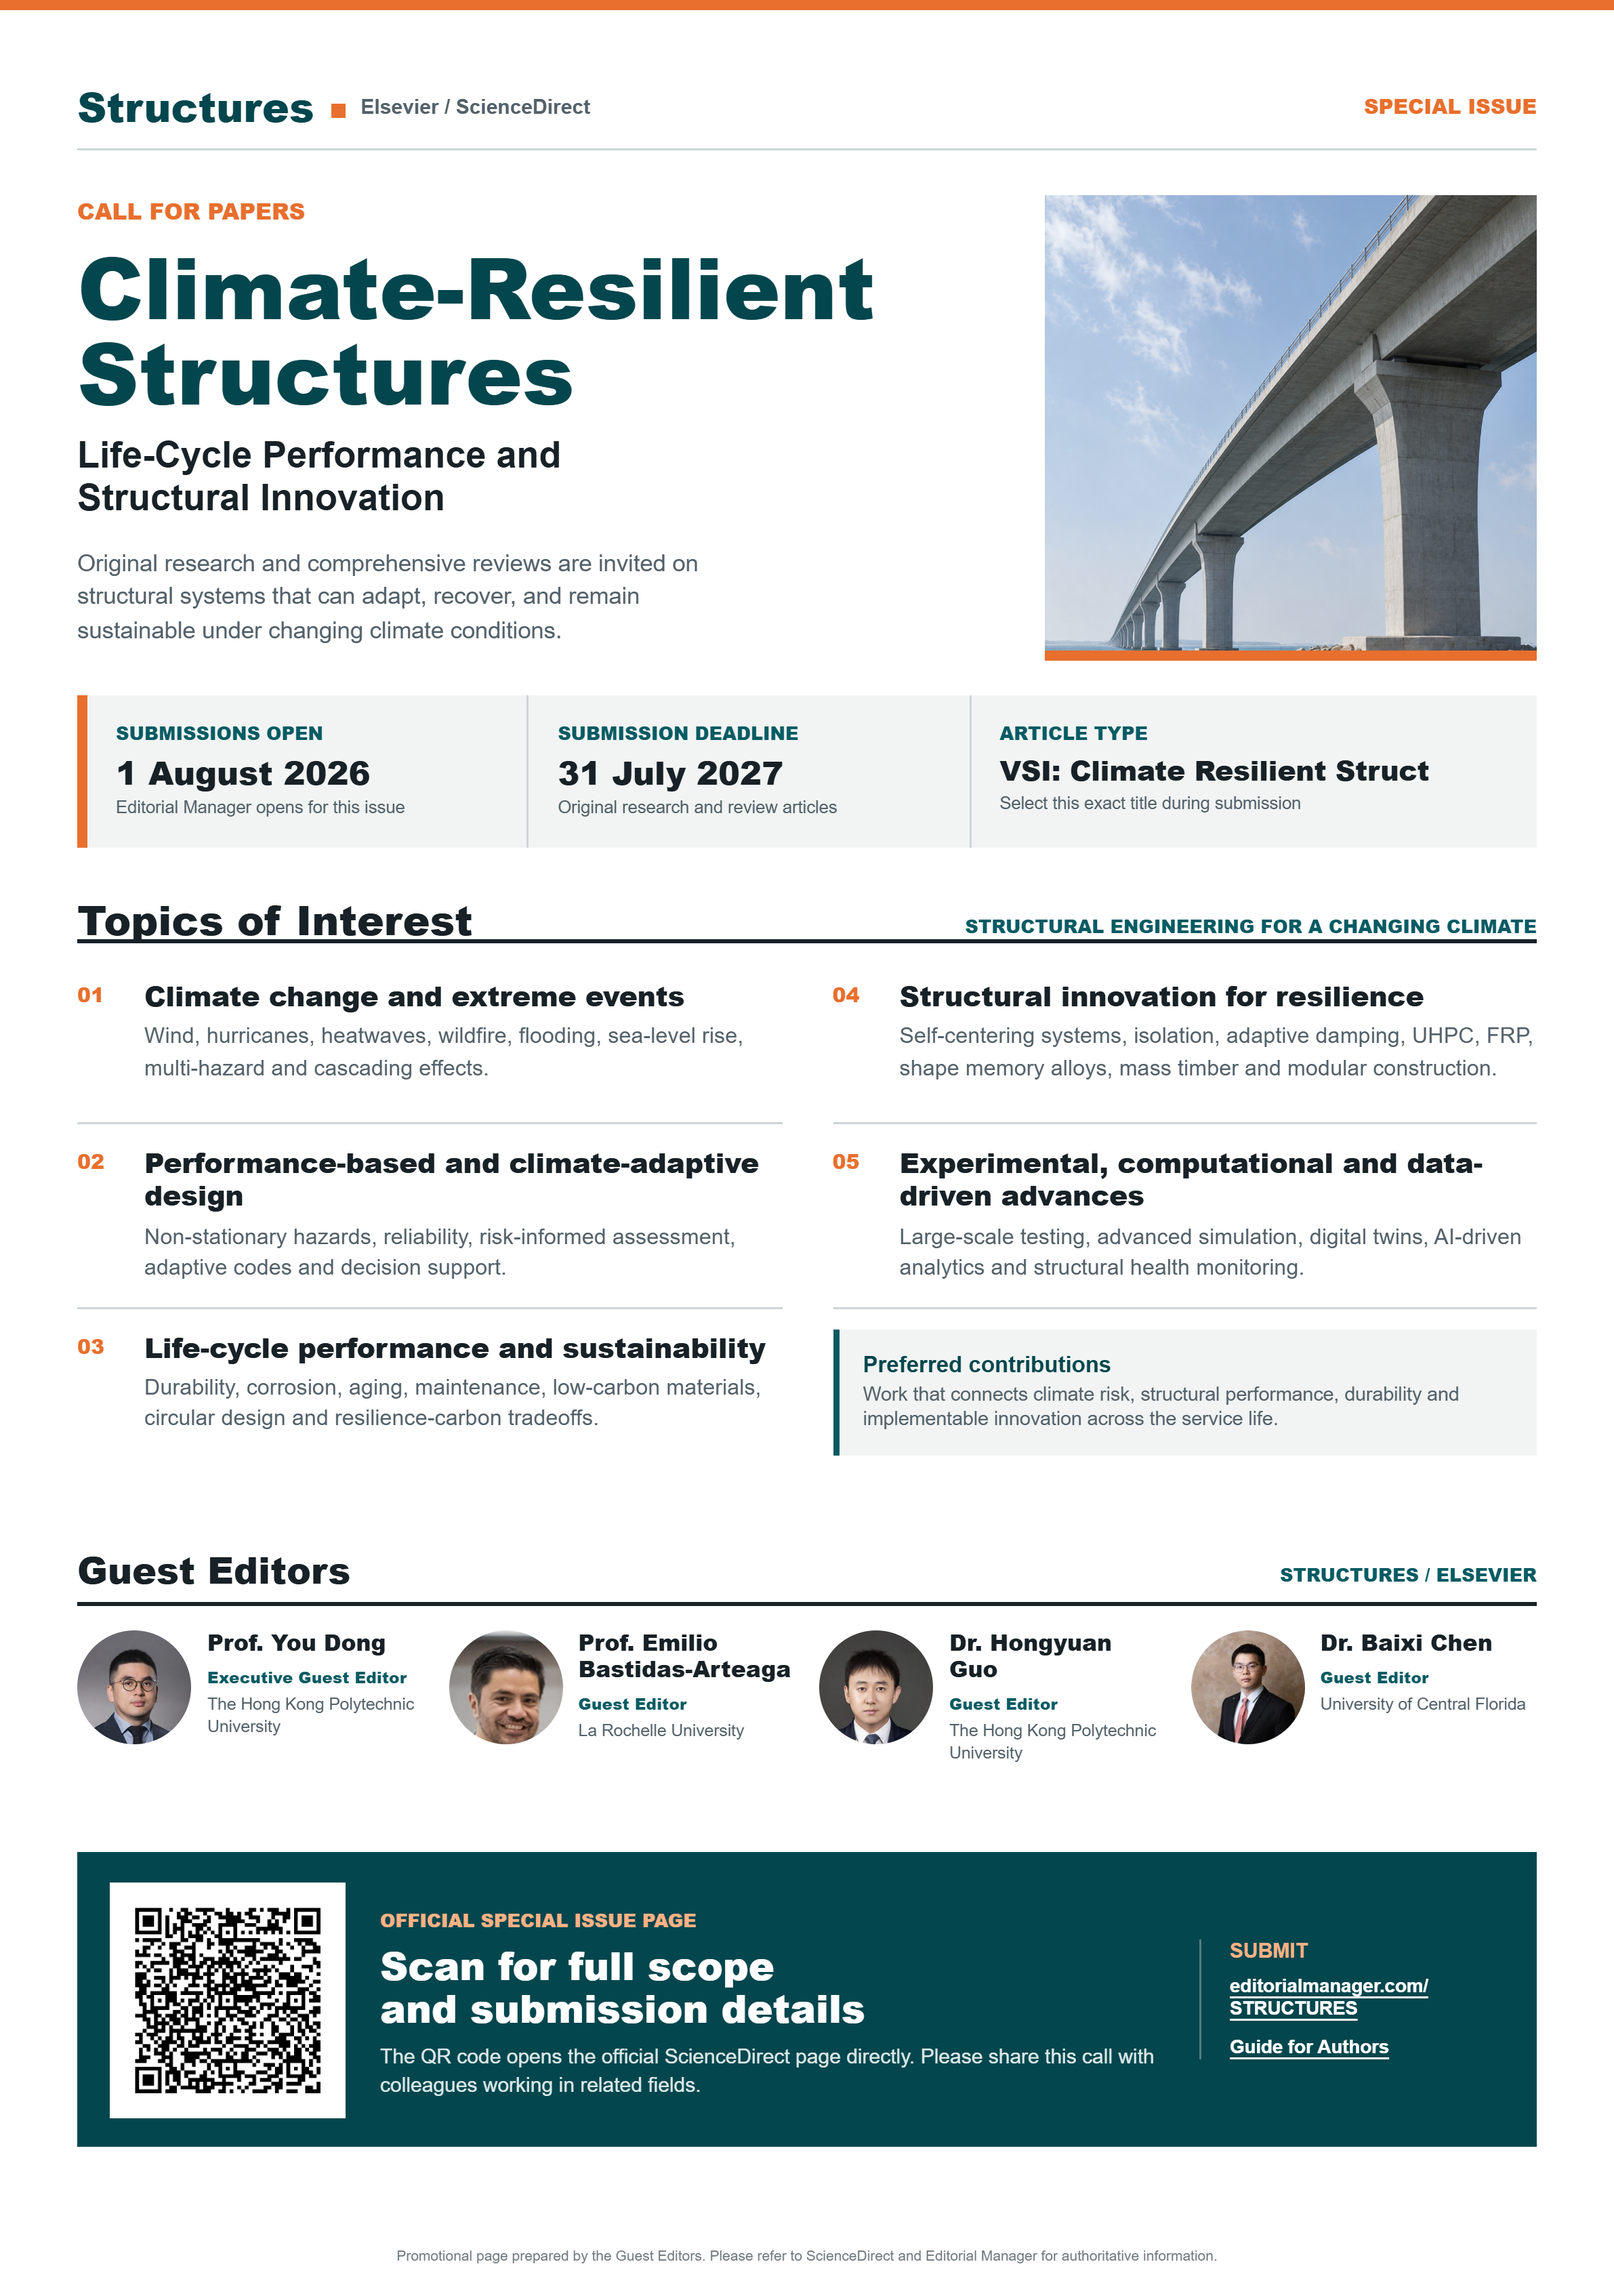
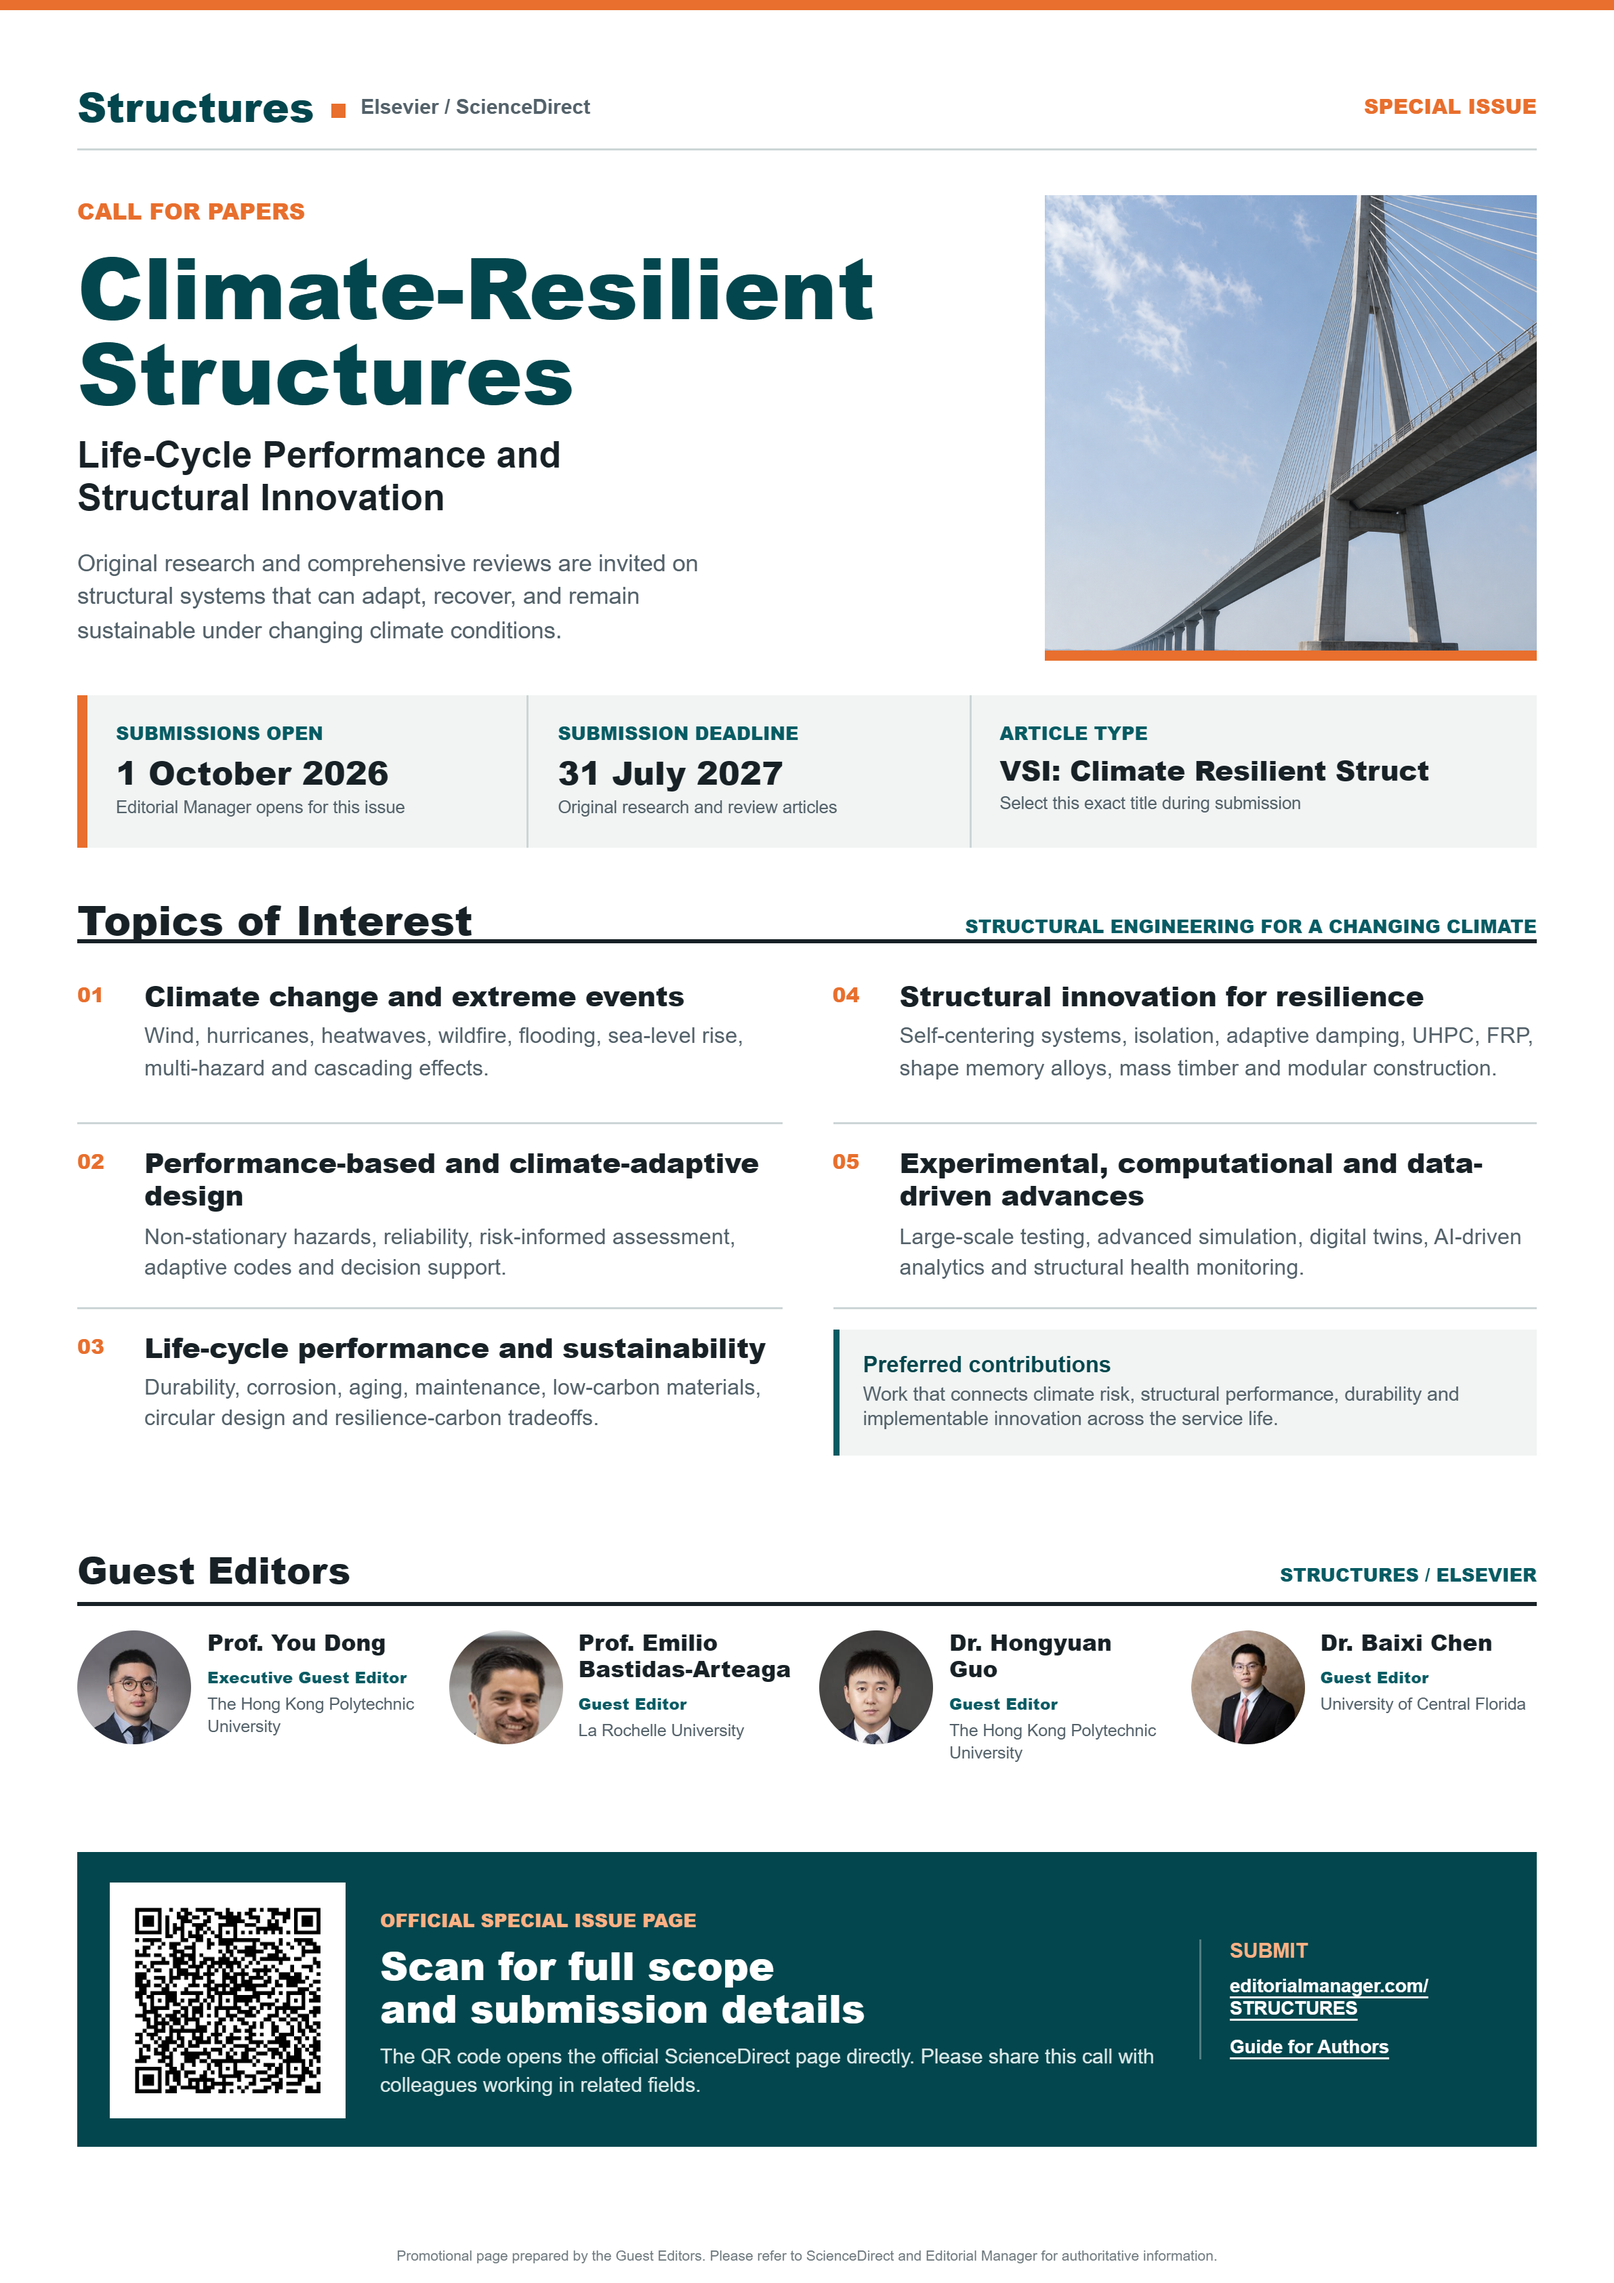
Update special issue opening date

Changed region(s): [[0.6524, 0.0623, 0.9631, 0.3117], [0.0932, 0.3117, 0.2485, 0.3428]]

diff --git a/index.html b/index.html
@@ -7,7 +7,7 @@
   <meta name="description" content="Call for Papers for the Structures Special Issue on Climate-Resilient Structures: Life-Cycle Performance and Structural Innovation.">
   <meta property="og:type" content="website">
   <meta property="og:title" content="Climate-Resilient Structures - Call for Papers">
-  <meta property="og:description" content="Structures Special Issue. Submissions open 1 August 2026 and close 31 July 2027.">
+  <meta property="og:description" content="Structures Special Issue. Submissions open 1 October 2026 and close 31 July 2027.">
   <meta property="og:image" content="https://hyguo1993.github.io/structures-cfp/assets/cfp-poster-a4.png">
   <meta property="og:image:width" content="2382">
   <meta property="og:image:height" content="3369">
@@ -131,7 +131,7 @@
       <section class="dates" aria-label="Key dates and submission type">
         <div class="date-item">
           <span class="date-label">Submissions open</span>
-          <strong class="date-value">1 August 2026</strong>
+          <strong class="date-value">1 October 2026</strong>
           <span class="date-note">Editorial Manager opens for this issue</span>
         </div>
         <div class="date-item">

diff --git a/social_copy.md b/social_copy.md
@@ -26,7 +26,7 @@
 >
 > 《气候韧性结构：全寿命性能与结构创新》
 >
-> 投稿开放：2026年8月1日
+> 投稿开放：2026年10月1日
 > 投稿截止：2027年7月31日
 > 文章类型：VSI: Climate Resilient Struct
 >
@@ -51,7 +51,7 @@
 >
 > **Climate-Resilient Structures: Life-Cycle Performance and Structural Innovation**
 >
-> Submissions open: 1 August 2026
+> Submissions open: 1 October 2026
 > Submission deadline: 31 July 2027
 > Article type in Editorial Manager: `VSI: Climate Resilient Struct`
 >
